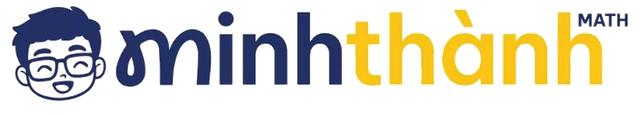
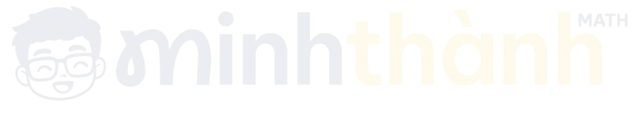
Đề trên web: chân trang Giáo viên Tô Minh Thành, 0967 365 413, 82 Chùa Láng
Claude-Session: https://claude.ai/code/session_017wwciU2fMgfKTXyoGdfayh

Changed region(s): [[0.0, 0.0522, 1.0, 0.887], [0.3438, 0.1043, 0.375, 0.2348]]

diff --git a/src/native/exams/exam-watermark.css b/src/native/exams/exam-watermark.css
@@ -1,16 +1,24 @@
-/* Dấu chìm logo màu Minh Thành Math trên mọi đề, tài liệu công khai (luật anh Thành 20/10/2026).
-   Phủ lên trên đề, không bắt chuột; ảnh chụp màn hình đề vẫn mang logo trung tâm. */
-:is(.fr-paper, .pt-questions, .dv-questions) { position: relative; }
+/* Dấu chìm logo màu Minh Thành Math + chân trang trên mọi đề, tài liệu công khai (luật anh Thành 20/10/2026).
+   Lớp phủ nằm trên đề, không bắt chuột; ảnh chụp màn hình đề vẫn mang logo và thông tin trung tâm.
+   Độ mờ logo đã nằm sẵn trong public/mtm-watermark.png để chữ chân trang giữ đủ đậm. */
+:is(.fr-paper, .pt-questions, .dv-questions) { position: relative; padding-bottom: 56px; }
 :is(.fr-paper, .pt-questions, .dv-questions)::after {
-  content: '';
+  content: 'Giáo viên Tô Minh Thành · ĐT/Zalo 0967 365 413 · Địa chỉ lớp học: 82 Chùa Láng';
   position: absolute;
   inset: 0;
   z-index: 2;
   pointer-events: none;
+  display: flex;
+  align-items: flex-end;
+  justify-content: center;
+  padding: 0 12px 14px;
+  font-size: 15px;
+  font-weight: 700;
+  line-height: 1.3;
+  color: #233468;
+  text-align: center;
   background-image: url('/mtm-watermark.png'), url('/mtm-watermark.png'), url('/mtm-watermark.png');
-  background-position: center 14%, center 50%, center 86%;
+  background-position: center 14%, center 50%, center 82%;
   background-size: min(64%, 520px) auto;
   background-repeat: no-repeat;
-  opacity: 0.08;
 }
-@media print { :is(.fr-paper, .pt-questions, .dv-questions)::after { opacity: 0.1; } }
